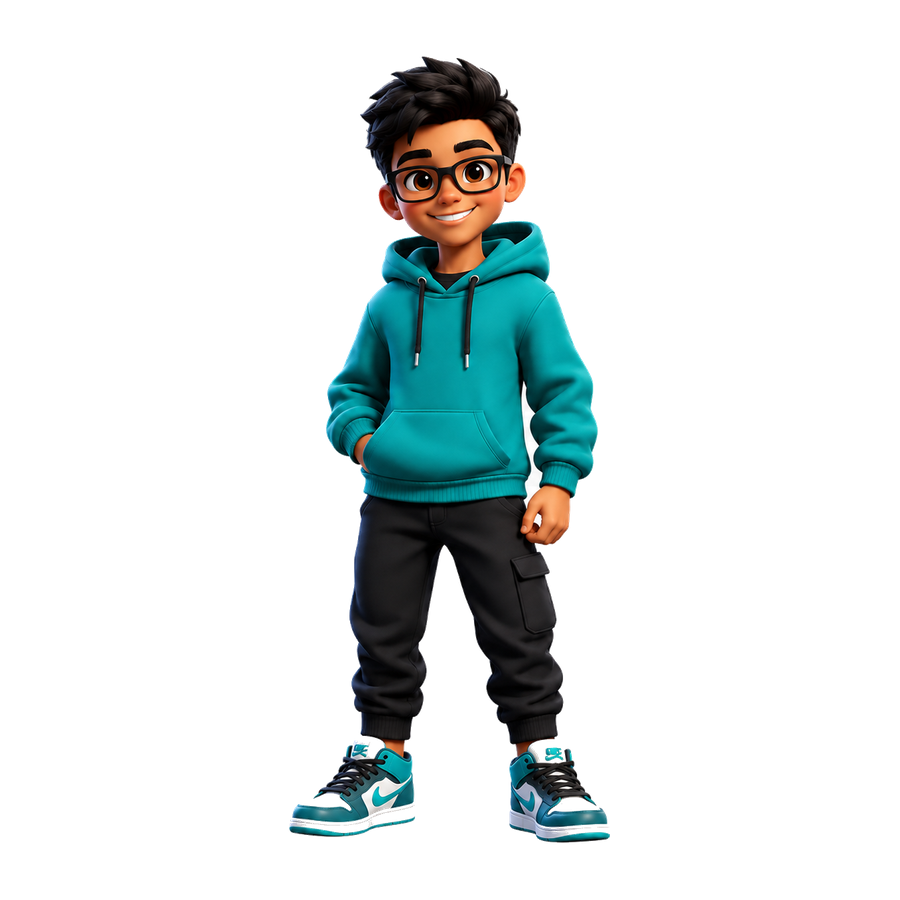
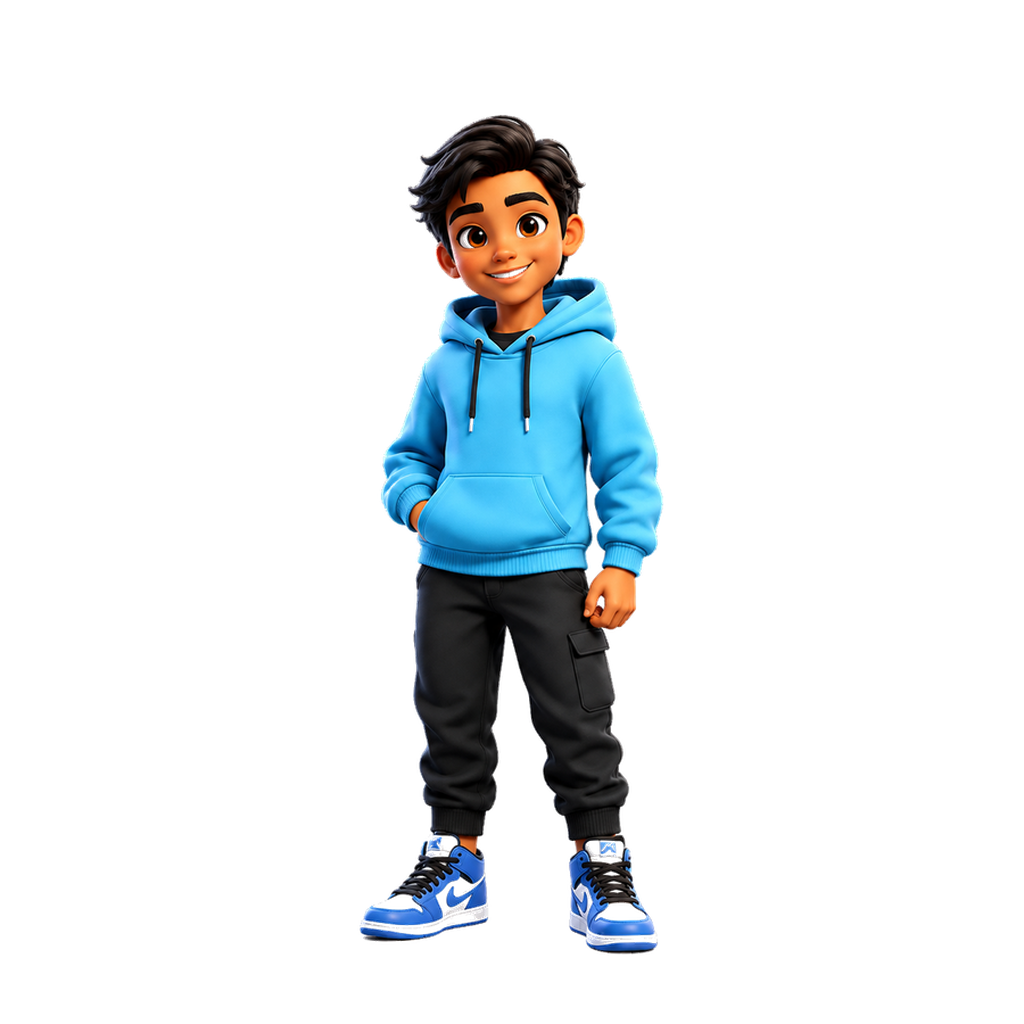
cc

Changed region(s): [[0.3111, 0.0622, 0.6844, 0.9333]]

diff --git a/juegos/app.js b/juegos/app.js
@@ -23,9 +23,9 @@ var availableAvatars = [
     { id: 'sofia',     label: 'Sofía',     gender: 'female', src: './assets/avatars/sofia.png',     accent: '#22c55e', keyColor: '#228d35', variantSrcs: { cap: './assets/avatars/sofia_cap.png', stethoscope: './assets/avatars/sofia_stethoscope.png' } },
     { id: 'andres',    label: 'Andrés',    gender: 'male',   src: './assets/avatars/andres.png',     accent: '#ec4899', keyColor: '#ef5ba7' },
     { id: 'valentina', label: 'Valentina', gender: 'female', src: './assets/avatars/valentina.png', accent: '#facc15', keyColor: '#dfaf1c' },
-    { id: 'diego',     label: 'Diego',     gender: 'male',   src: './assets/avatars/diego.png',     accent: '#06b6d4', keyColor: '#0a9ca8' },
+    { id: 'diego',     label: 'Diego',     gender: 'male',   src: './assets/avatars/diego.png',     accent: '#06b6d4', keyColor: '#0a9ca8', variantSrcs: { cap: './assets/avatars/diego_cap.png', stethoscope: './assets/avatars/diego_stethoscope.png' } },
     { id: 'bruno',     label: 'Bruno',     gender: 'male',   src: './assets/avatars/bruno.png',     accent: '#f97316', keyColor: '#f08414' },
-    { id: 'sebastian', label: 'Sebastián', gender: 'male',   src: './assets/avatars/sebastian.png', accent: '#38bdf8', keyColor: '#39a7ee' },
+    { id: 'sebastian', label: 'Sebastián', gender: 'male',   src: './assets/avatars/sebastian.png', accent: '#f97316', keyColor: '#f08414', variantSrcs: { cap: './assets/avatars/sebastian_cap.png', stethoscope: './assets/avatars/sebastian_stethoscope.png' } },
     { id: 'camila',    label: 'Camila',    gender: 'female', src: './assets/avatars/camila.png',    accent: '#c084fc', keyColor: '#b17ae8' },
     { id: 'paula',     label: 'Paula',     gender: 'female', src: './assets/avatars/paula.png',    accent: '#86efac', keyColor: '#9bd7c9' },
     { id: 'emilia',    label: 'Emilia',    gender: 'female', src: './assets/avatars/emilia.png',    accent: '#14b8a6', keyColor: '#09b0b3' }
@@ -385,11 +385,59 @@ function refreshCurrentAvatarUI() {
     setAvatarContent(topbarAvatar, currentAvatar, 'Avatar de usuario', 'topbar-avatar-media');
 }
 
+function getCurrentUserDisplayName() {
+    if (!currentUser) return 'Estudiante';
+    return currentUser.user_metadata && currentUser.user_metadata.full_name
+        ? currentUser.user_metadata.full_name
+        : (currentUser.email || 'Estudiante').split('@')[0];
+}
+
+function avatarStorageKey() {
+    return currentUser && currentUser.id ? 'alcocermed_avatar_' + currentUser.id : '';
+}
+
+function getStoredAvatarValue(seedName) {
+    var key = avatarStorageKey();
+    if (!key) return '';
+    try {
+        return localStorage.getItem(key) || '';
+    } catch (e) {
+        return '';
+    }
+}
+
+function storeAvatarValue(value) {
+    var key = avatarStorageKey();
+    if (!key) return;
+    try {
+        localStorage.setItem(key, value);
+    } catch (e) {}
+}
+
+function syncParticipantAvatarRows() {
+    if (!currentUser) return;
+    var client = getSupabase();
+    if (!client) return;
+    var nombreConAvatar = currentAvatar + '|' + getCurrentUserDisplayName();
+    client.from('evaluacion_participantes')
+        .update({ nombre: nombreConAvatar })
+        .eq('user_id', currentUser.id)
+        .then(function(res) {
+            if (res && res.error) console.warn('No se pudo sincronizar avatar en participantes:', res.error.message);
+        });
+}
+
 function initAvatars() {
-    if (currentUser && currentUser.user_metadata && currentUser.user_metadata.avatar) {
-        currentAvatar = normalizeAvatarValue(currentUser.user_metadata.avatar, currentUser.user_metadata.full_name || currentUser.email || 'avatar');
+    var seedName = currentUser && (currentUser.user_metadata && currentUser.user_metadata.full_name || currentUser.email) || 'avatar';
+    var metadataAvatar = currentUser && currentUser.user_metadata && currentUser.user_metadata.avatar ? currentUser.user_metadata.avatar : '';
+    var storedAvatar = getStoredAvatarValue(seedName);
+    if (metadataAvatar) {
+        currentAvatar = normalizeAvatarValue(metadataAvatar, seedName);
+        storeAvatarValue(currentAvatar);
+    } else if (storedAvatar) {
+        currentAvatar = normalizeAvatarValue(storedAvatar, seedName);
     } else {
-        currentAvatar = normalizeAvatarValue(currentAvatar, currentUser && (currentUser.user_metadata && currentUser.user_metadata.full_name || currentUser.email) || 'avatar');
+        currentAvatar = normalizeAvatarValue(currentAvatar, seedName);
     }
     refreshCurrentAvatarUI();
 }
@@ -517,11 +565,24 @@ window.chooseAvatarAccessory = function(accessory) {
 };
 
 window.saveAvatarSelection = function() {
-    currentAvatar = normalizeAvatarValue(avatarDraftConfig || currentAvatar, currentUser && ((currentUser.user_metadata && currentUser.user_metadata.full_name) || currentUser.email) || 'avatar');
+    var seedName = currentUser && ((currentUser.user_metadata && currentUser.user_metadata.full_name) || currentUser.email) || 'avatar';
+    currentAvatar = normalizeAvatarValue(avatarDraftConfig || currentAvatar, seedName);
+    storeAvatarValue(currentAvatar);
     refreshCurrentAvatarUI();
     if (currentUser) {
         var client = getSupabase();
-        client.auth.updateUser({ data: { avatar: currentAvatar } });
+        var newMetadata = Object.assign({}, currentUser.user_metadata || {}, { avatar: currentAvatar });
+        currentUser.user_metadata = newMetadata;
+        syncParticipantAvatarRows();
+        if (client) {
+            client.auth.updateUser({ data: { avatar: currentAvatar } }).then(function(result) {
+                if (result && result.data && result.data.user) currentUser = result.data.user;
+                if (result && result.error) {
+                    console.warn('No se pudo guardar avatar en Supabase:', result.error.message);
+                    alert('Guardé el avatar en esta cuenta local, pero Supabase no confirmó el cambio. Intenta de nuevo si no aparece en otro dispositivo.');
+                }
+            });
+        }
     }
     closeAvatarModal();
 };
